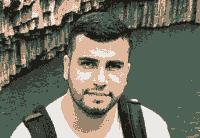
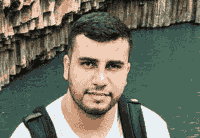
Update

diff --git a/src/application/Main.java b/src/application/Main.java
@@ -8,12 +8,21 @@ import java.util.ArrayList;
 import java.util.Collections;
 import java.util.HashMap;
 import java.util.List;
+import java.util.Random;
+
 import javax.imageio.ImageIO;
+
+
 import entities.Cluster;
 import javafx.application.Application;
+import javafx.scene.Group;
 import javafx.scene.Scene;
 import javafx.scene.layout.StackPane;
 import javafx.scene.layout.VBox;
+import javafx.scene.paint.Color;
+import javafx.scene.shape.Circle;
+import javafx.scene.shape.Rectangle;
+import javafx.scene.shape.Shape;
 import javafx.stage.Stage;
 
 /*
@@ -33,6 +42,8 @@ public class Main extends Application{
 	public void start(Stage primaryStage) throws Exception {
 		
 		StackPane sp = new StackPane();
+		createCircles(sp);
+		sp.setStyle("-fx-background-color: #707070");;
 		Scene root = new Scene(sp, 750, 750);
 		primaryStage.setScene(root);
 		primaryStage.show();
@@ -49,11 +60,11 @@ public class Main extends Application{
 		BufferedImage resultImage;
 		
 		try {
-			origImg = ImageIO.read(new File("./src/input/moshe_small.png"));
-			resultImage = kMeans(origImg, 6);
-			setASCIIMap();
-			fileContent = praperToFile();
-            makeFile(fileContent);
+			origImg = ImageIO.read(new File("./src/input/moshe.png"));
+			resultImage = kMeans(origImg, 15);
+			//setASCIIMap();
+		    //fileContent = praperToFile();
+            //makeFile(fileContent);
             saveResultImage(resultImage);
             
 		} catch (IOException e) {
@@ -122,7 +133,7 @@ public class Main extends Application{
                 resultImageultImage.setRGB(x, y, clusters.get(clusterId).getRGB()); 
             } 
         
-       Collections.sort(clusters);
+       //Collections.sort(clusters);
        return resultImageultImage;
 	}
 	
@@ -183,6 +194,35 @@ public class Main extends Application{
 		}catch (Exception e){ e.printStackTrace(); }
     }
 
-
+    private void createCircles(StackPane sp) {
+    	int scl = 5;
+    	float f;
+    	Group g = new Group();
+    	Random rand = new Random();
+        for(int y=0; y < height; y++) {  
+            for(int x=0; x < width; x++) {
+            	Shape c;
+            	String position = "(" + x + "," + y + ")";
+            	int color = clusters.get(clustersMap.get(position)).getRGB();
+                int r  = (color >> 16) & 0xFF;  
+                int gr = (color >>  8) & 0xFF;  
+                int b  = (color >>  0) & 0xFF;
+                int flag = rand.nextInt(2);
+                System.out.println(flag);
+                if(flag == 1) 
+                	c = new Circle((double) x*scl - (rand.nextInt(scl - 1) - scl / 2), 
+            						  (double) y*scl - (rand.nextInt(scl - 1) - scl / 2),
+            						  rand.nextInt(3) + 2);
+                else
+                	c = new Rectangle(x - scl / 2, y - scl / 2, scl, scl);
+            	c.setStroke(Color.rgb(20,20,20));
+            	f = rand.nextFloat();
+            	c.setFill(Color.rgb(r, gr, b, (( f + 0.4 ) <= 1) ?  f + 0.4 : 1));
+            	g.getChildren().add(c);
+            		 		
+            }
+        }
+        sp.getChildren().add(g);
+    }
 
 }
